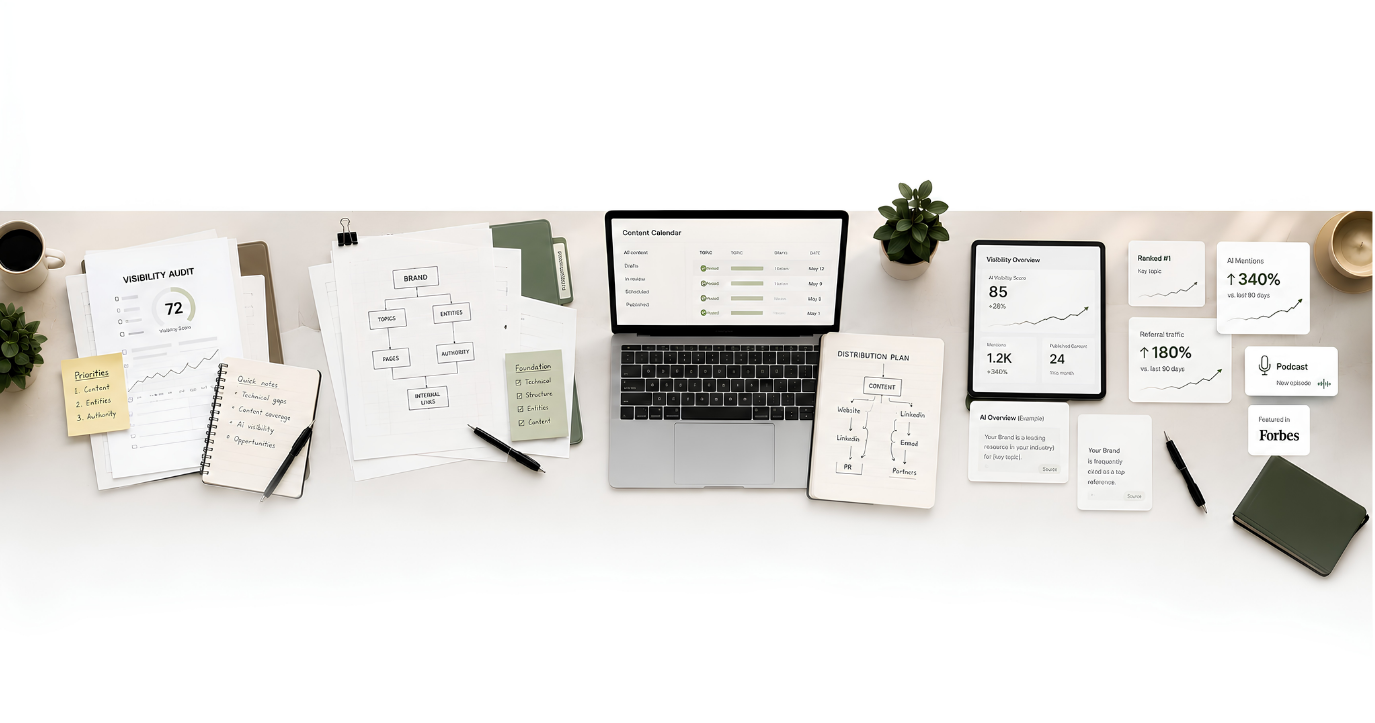
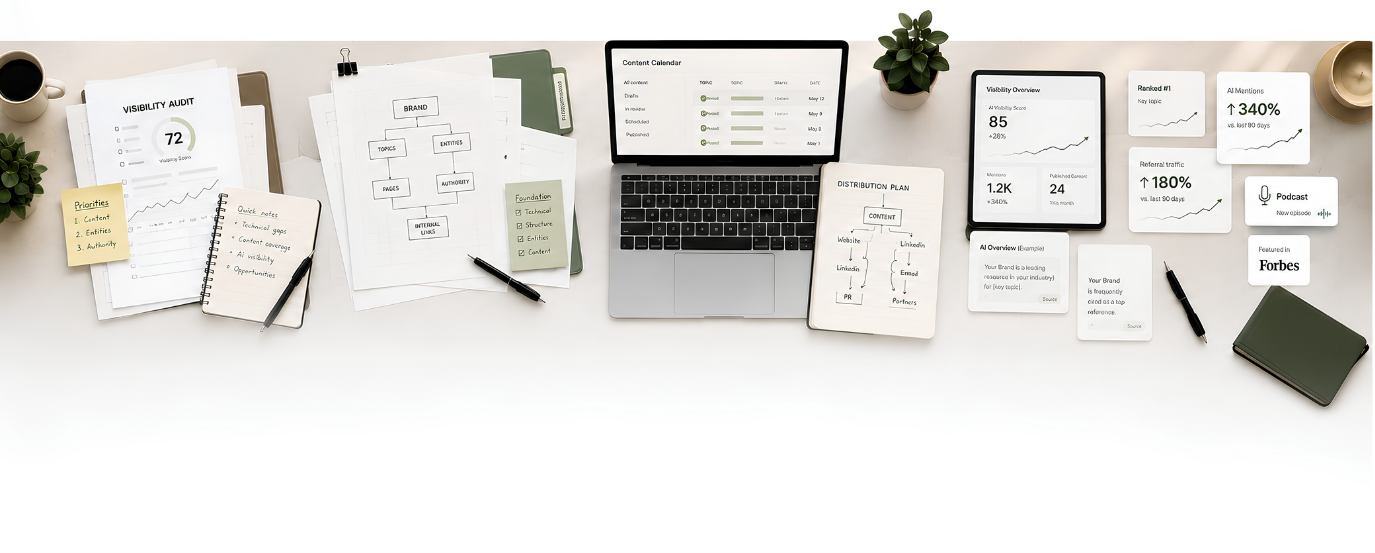
refine(ServicesPage): tighten engagement section, redesign timeline, center header
- Crop baked-in top whitespace from the desk banner (723->553) so it sits
  close under the heading instead of leaving a large gap.
- Tighten section padding and header/image/timeline spacing.
- Redesign the 01-04 timeline: filled dark-green nodes with white numerals,
  fading gradient connectors, and period pills.
- Center the header (eyebrow, title, subtitle).
- Keep the banner full-bleed as the section was designed.

diff --git a/src/components/ServicesLanding.tsx b/src/components/ServicesLanding.tsx
@@ -317,21 +317,21 @@ export default function ServicesPage() {
       </section>
 
       {/* ── Process ───────────────────────────────────────────────────────── */}
-      <section className="bg-white py-16 2xl:py-28 border-b border-gray-100">
+      <section className="bg-white py-12 2xl:py-16 border-b border-gray-100">
         <div className="max-w-[1440px] mx-auto px-6">
-          <div className="max-w-2xl">
-            <Eyebrow className="mb-5">How an engagement runs</Eyebrow>
+          <div className="max-w-2xl mx-auto text-center">
+            <Eyebrow center className="mb-5">How an engagement runs</Eyebrow>
             <h2 className="text-4xl sm:text-5xl font-bold tracking-tight text-gray-900 leading-[1.05] mb-6 font-sans">
               What working together looks like.
             </h2>
-            <p className="text-gray-500 font-medium text-base leading-relaxed max-w-[48ch]">
+            <p className="text-gray-500 font-medium text-base leading-relaxed max-w-[48ch] mx-auto">
               A clear arc from first look to compounding results — no hidden phases, no surprises.
             </p>
           </div>
         </div>
 
-        {/* Full-bleed desk banner */}
-        <div className="w-full my-12 lg:my-16">
+        {/* Full-bleed desk banner — spans the full page width, as the section was designed */}
+        <div className="w-full mt-6 mb-7 lg:mb-8">
           <img
             src="/thallo-digital/engagement-desk.png"
             alt="A Thallo engagement laid out on a desk: visibility audit, brand map, content calendar, distribution plan and results"
@@ -341,23 +341,29 @@ export default function ServicesPage() {
 
         {/* Horizontal timeline: 01 → 02 → 03 → 04 */}
         <div className="max-w-[1440px] mx-auto px-6">
-          <div className="grid grid-cols-1 sm:grid-cols-2 lg:grid-cols-4 gap-x-8 gap-y-12">
+          <div className="grid grid-cols-1 sm:grid-cols-2 lg:grid-cols-4 gap-x-6 gap-y-9">
             {PROCESS.map((step, i) => (
-              <div key={step.idx} className="flex flex-col">
-                <div className="flex items-center mb-6">
-                  <div className="w-9 h-9 rounded-full flex items-center justify-center flex-shrink-0" style={{ backgroundColor: '#E7ECD9' }}>
-                    <span className="text-[12px] font-semibold" style={{ color: '#39471D' }}>{step.idx}</span>
+              <div key={step.idx} className="group flex flex-col">
+                <div className="flex items-center mb-5">
+                  <div
+                    className="w-10 h-10 rounded-full flex items-center justify-center flex-shrink-0 ring-4 ring-white shadow-sm transition-transform duration-300 group-hover:-translate-y-0.5"
+                    style={{ backgroundColor: '#445A20' }}
+                  >
+                    <span className="text-[13px] font-semibold text-white">{step.idx}</span>
                   </div>
                   {i < PROCESS.length - 1 && (
-                    <div className="hidden lg:flex items-center flex-1 ml-4">
-                      <span className="block h-px flex-1" style={{ backgroundColor: '#CBD9AE' }} />
-                      <svg width="7" height="10" viewBox="0 0 7 10" fill="none" className="ml-1" style={{ color: '#9CB36A' }}>
-                        <path d="M1 1l4 4-4 4" stroke="currentColor" strokeWidth="1.5" strokeLinecap="round" strokeLinejoin="round" />
-                      </svg>
-                    </div>
+                    <span
+                      className="hidden lg:block h-px flex-1 ml-3"
+                      style={{ background: 'linear-gradient(to right, #C7D6A6 0%, rgba(199,214,166,0) 92%)' }}
+                    />
                   )}
                 </div>
-                <p className="font-mono text-[11px] font-bold tracking-[0.18em] uppercase mb-2" style={{ color: '#7D9A4E' }}>{step.period}</p>
+                <span
+                  className="self-start inline-flex items-center rounded-full px-2.5 py-1 mb-3 font-mono text-[10px] font-bold tracking-[0.16em] uppercase"
+                  style={{ backgroundColor: '#EEF2E3', color: '#5A7030' }}
+                >
+                  {step.period}
+                </span>
                 <h3 className="text-base font-bold text-gray-900 mb-2">{step.title}</h3>
                 <p className="text-sm text-gray-500 leading-relaxed">{step.desc}</p>
               </div>